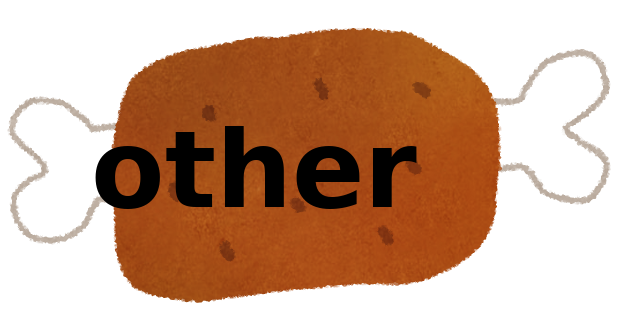
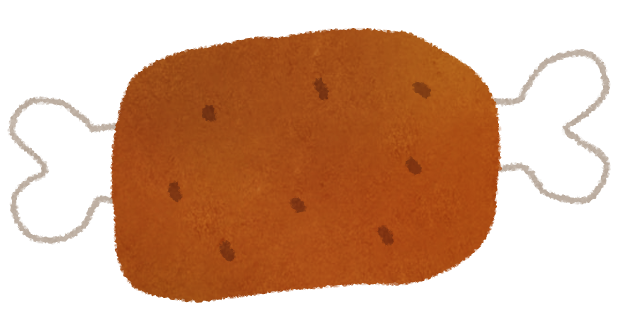
Add new image asset: other.png

Changed region(s): [[0.1518, 0.3738, 0.6677, 0.6542]]

diff --git a/docs/map_demo.html b/docs/map_demo.html
@@ -33,8 +33,8 @@
   <meta property="og:image:height" content="630" />
   <meta name="twitter:card" content="summary_large_image" />
   <link rel="manifest" href="manifest.webmanifest" />
-  <link rel="icon" type="image/png" href="assets/new_pins/processed/cluster.png" />
-  <link rel="apple-touch-icon" href="assets/new_pins/processed/cluster.png" />
+  <link rel="icon" type="image/png" href="assets/new_pins/processed/onikuimages-1129079_S.png" />
+  <link rel="apple-touch-icon" href="assets/new_pins/processed/onikuimages-1129079_S.png" />
   <meta name="theme-color" content="#000000" />
   <script async src="https://pagead2.googlesyndication.com/pagead/js/adsbygoogle.js?client=ca-pub-9721987325108836"
           crossorigin="anonymous"></script>
@@ -594,7 +594,7 @@
         const isAllGenreSelected = typeof activeGenre === "string" && activeGenre === "";
         let iconUrl = "./assets/pins/cluster.png";
         if (isAllGenreSelected) {
-          iconUrl = "./assets/new_pins/processed/cluster.png";
+          iconUrl = "./assets/new_pins/processed/onikuimages-1129079_S.png";
         }
         if (typeof activeGenre === "string" && activeGenre && typeof genreIcons === "object") {
           const candidate = genreIcons[activeGenre];
@@ -802,7 +802,7 @@
       "焼き鳥・もつ焼き": "./assets/new_pins/processed/yakitori.png",
       "しゃぶしゃぶ": "./assets/new_pins/processed/syabusyabu.png",
       "韓国": "./assets/new_pins/processed/kankoku.png",
-      "その他": "./assets/pins/cluster.png",
+      "その他": "./assets/pins/other.png",
     };
 
     function normalizeGenreText(genre) {

diff --git a/docs/sw.js b/docs/sw.js
@@ -1,11 +1,12 @@
-const CACHE_NAME = "tmm-cache-v4";
+const CACHE_NAME = "tmm-cache-v6";
 const ASSETS = [
   "./map_demo.html",
   "./manifest.webmanifest",
   "./sw.js",
   "./ogp.png",
-  "./assets/new_pins/processed/cluster.png",
+  "./assets/new_pins/processed/onikuimages-1129079_S.png",
   "./assets/pins/steak.png",
+  "./assets/pins/other.png",
   "./assets/pins/yakiniku.png",
   "./assets/pins/churrasco.png",
   "./assets/pins/yakitori.png",

diff --git a/docs/index.html b/docs/index.html
@@ -4,8 +4,8 @@
   <meta charset="utf-8">
   <meta name="viewport" content="width=device-width, initial-scale=1">
   <title>TOKYO MEAT MAP</title>
-  <link rel="icon" type="image/png" href="assets/new_pins/processed/cluster.png">
-  <link rel="apple-touch-icon" href="assets/new_pins/processed/cluster.png">
+  <link rel="icon" type="image/png" href="assets/new_pins/processed/onikuimages-1129079_S.png">
+  <link rel="apple-touch-icon" href="assets/new_pins/processed/onikuimages-1129079_S.png">
   <script async src="https://fundingchoicesmessages.google.com/i/pub-9721987325108836?ers=1"></script>
   <script>
     (function() {